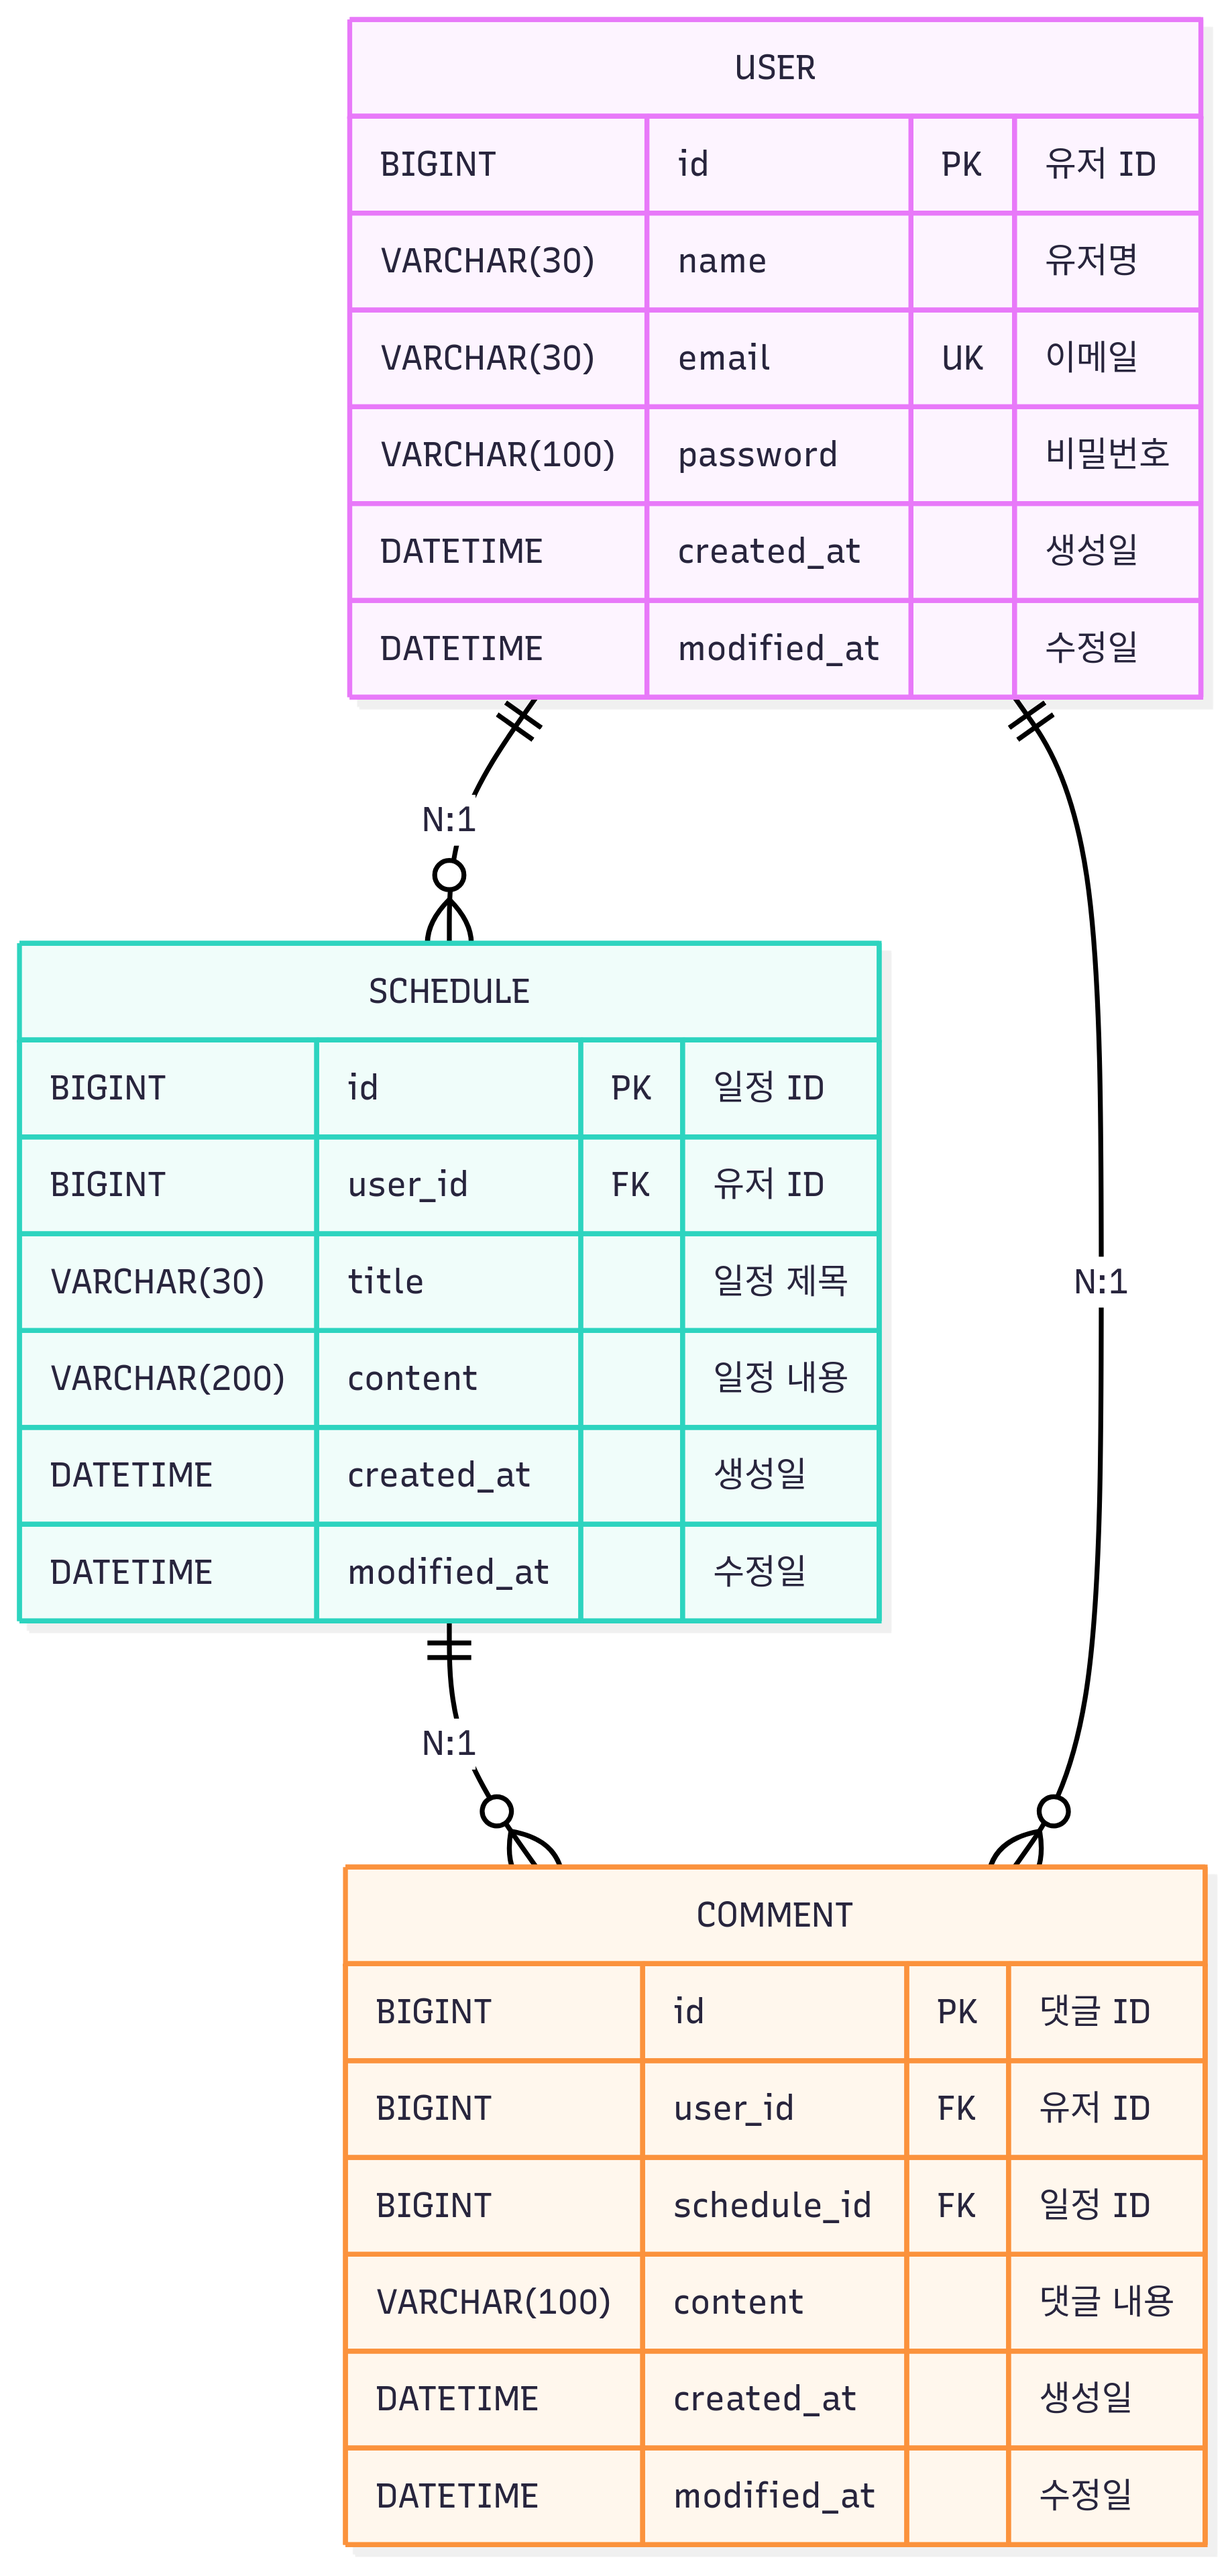
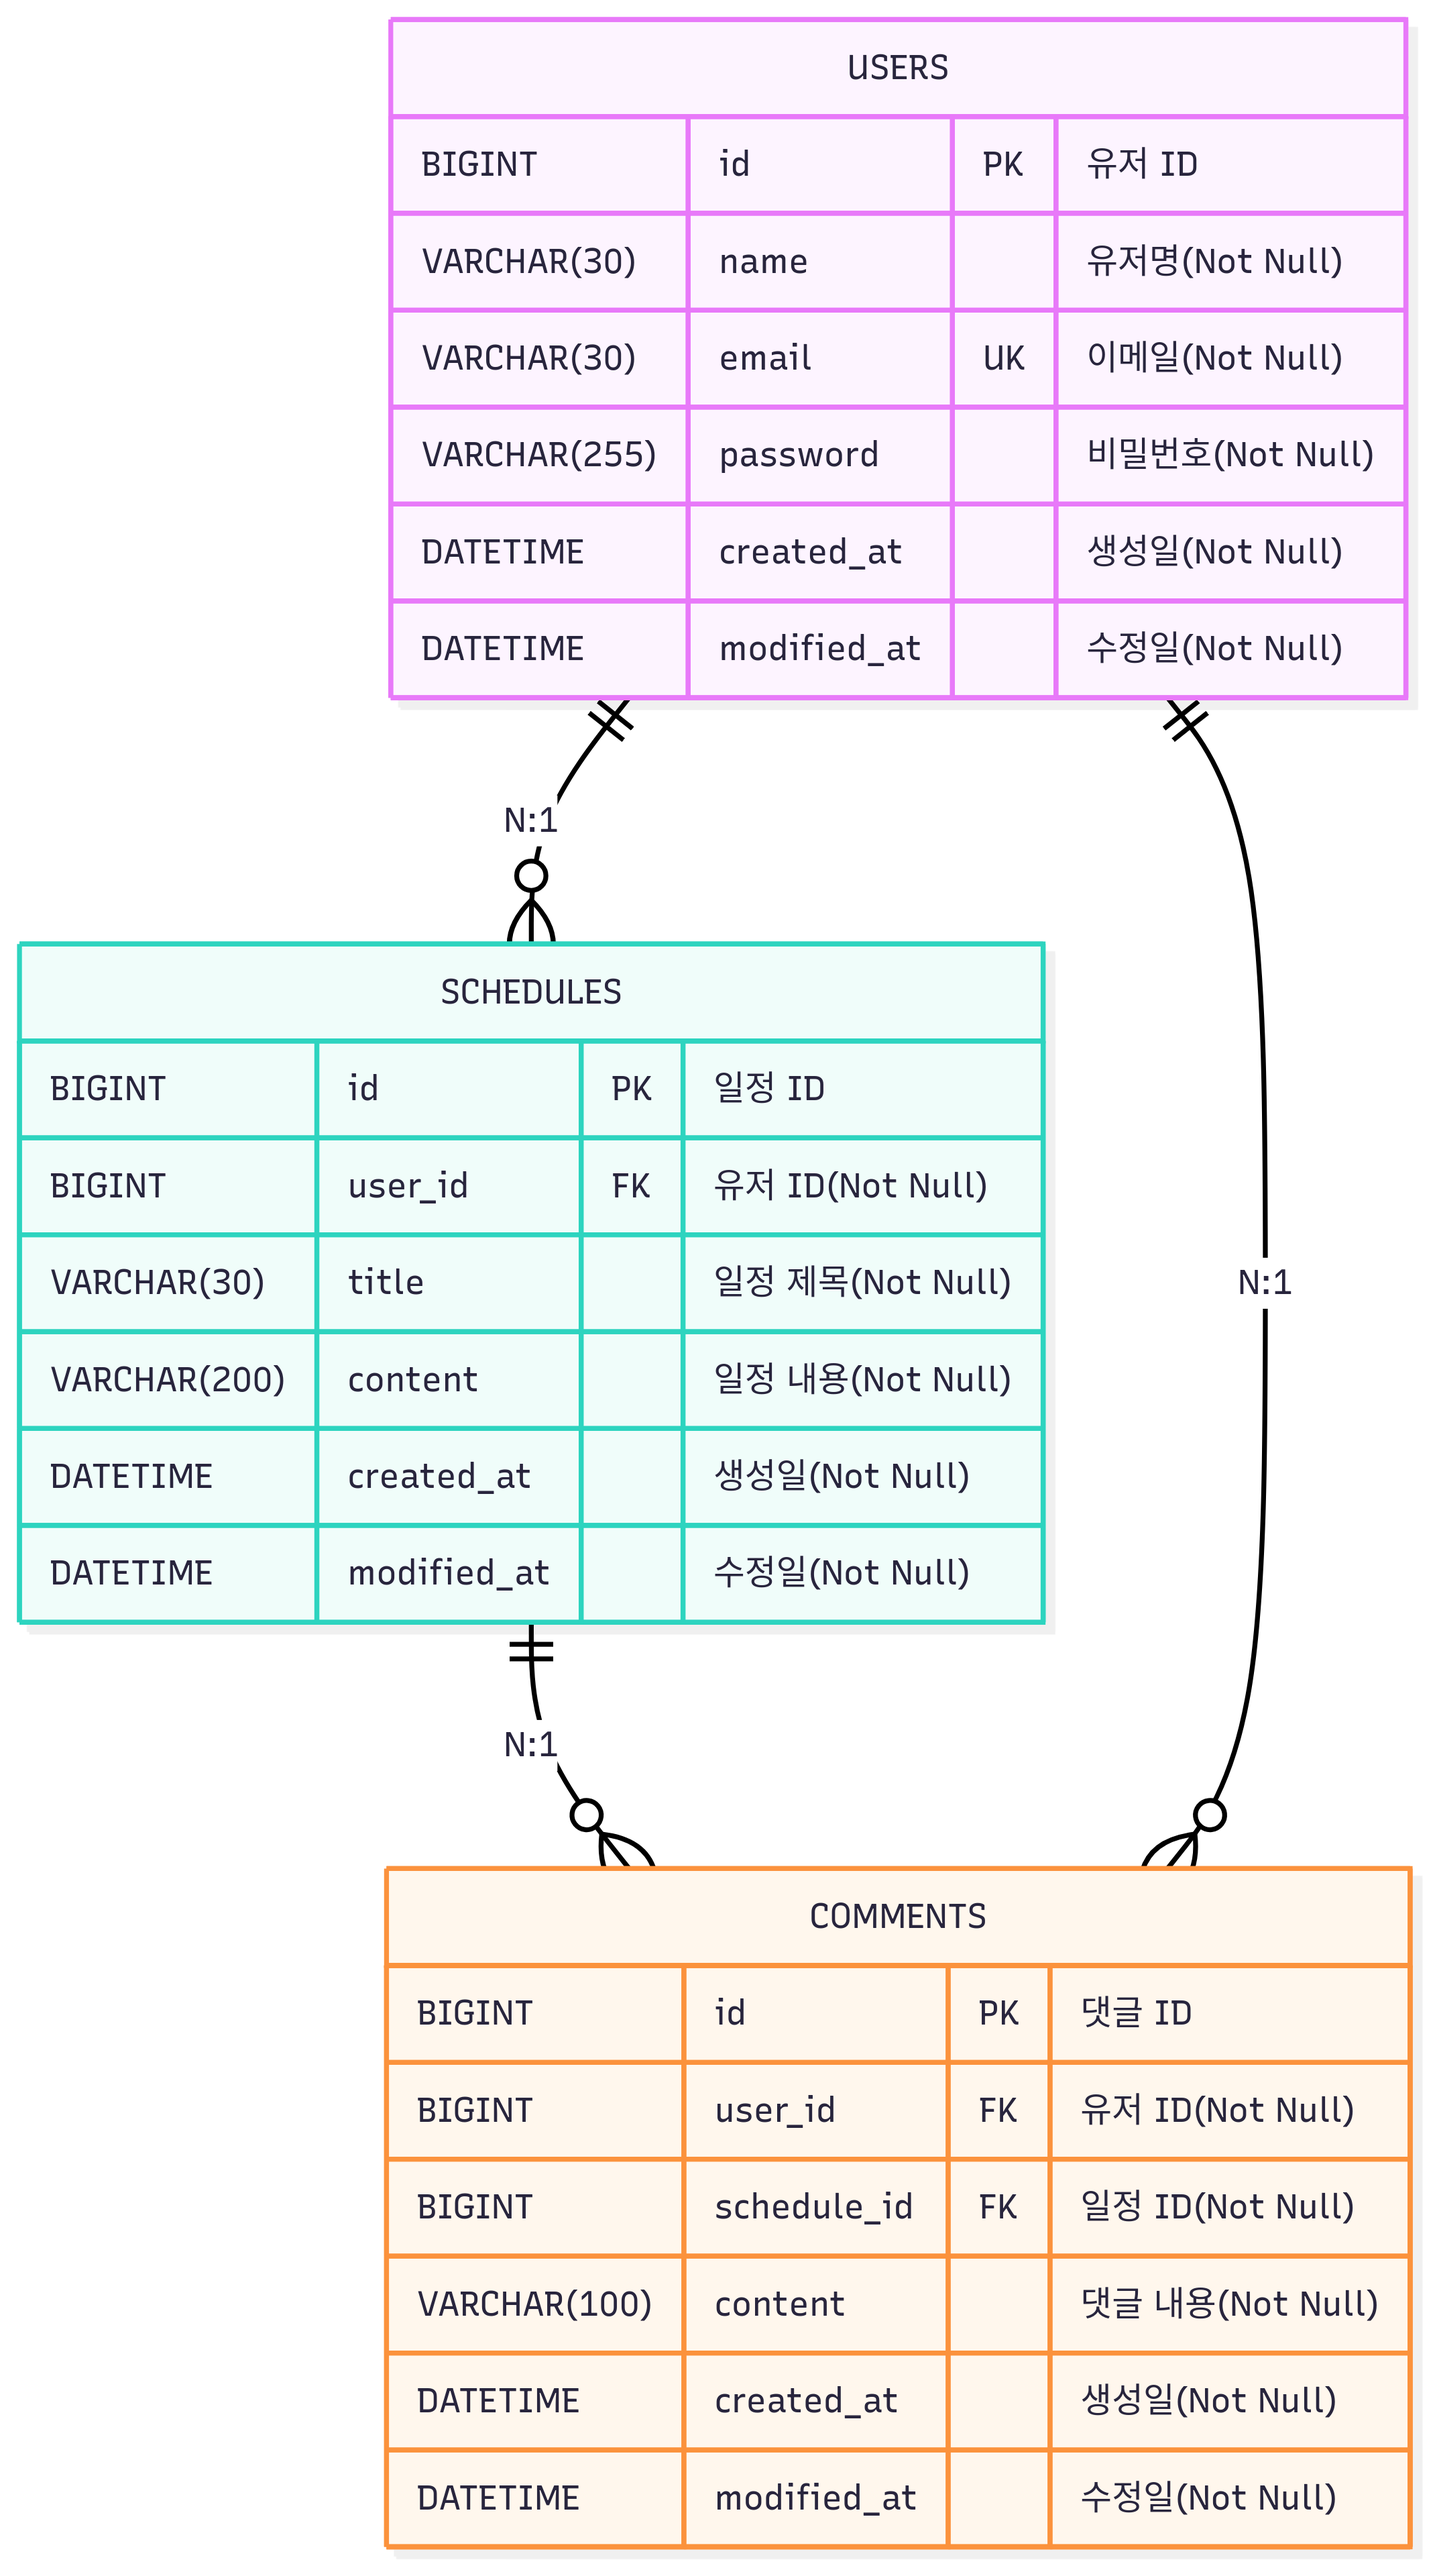
Style : readMe 파일 수정

Changed region(s): [[0.0, 0.0, 0.9945, 1.0], [0.5905, 0.0, 0.6527, 0.0312]]

diff --git a/readMe.md b/readMe.md
@@ -23,32 +23,32 @@ api 명세서
 
 테이블 명세서
 
-| 테이블(User) | 컴럼 | 타입 | 제약 | 설명 |
-| --- | --- | --- | --- | --- |
-| ID | id | BIGINT | PK | 유저 ID |
-| name | name | VARCHAR(30) | Not Null | 유저명 |
-| email | email | VARCHAR(30) | UK | 이메일 |
-| password | password | VARCHAR(100) | Not Null | 비밀번호 |
-| createdAt | created_At | DATETIME | Not Null | 생성일 |
+| 테이블(users) | 컴럼 | 타입 | 제약       | 설명 |
+|------------| --- | --- |----------| --- |
+| ID         | id | BIGINT | PK       | 유저 ID |
+| name       | name | VARCHAR(30) | Not Null | 유저명 |
+| email      | email | VARCHAR(30) | UK,Not Null  | 이메일 |
+| password   | password | VARCHAR(100) | Not Null | 비밀번호 |
+| createdAt  | created_At | DATETIME | Not Null | 생성일 |
 | modifiedAt | modified_At | DATETIME | Not Null | 수정일 |
 
-| 테이블(Schedule) | 컴럼 | 타입 | 제약 | 설명 |
-| --- | --- | --- | --- | --- |
-| ID | id | BIGINT | PK | 일정 ID |
-| userId | user_id | BIGINT | FK | 유저 ID |
-| title | title | VARCHAR(30) | Not Null | 일정 제목 |
-| content | content | VARCHAR(200) | Not Null | 일정 내용 |
-| createdAt | created_At | DATETIME | Not Null | 생성일 |
-| modifiedAt | modified_At | DATETIME | Not Null | 수정일 |
+| 테이블(schedules) | 컴럼 | 타입 | 제약 | 설명 |
+|----------------| --- | --- | --- | --- |
+| ID             | id | BIGINT | PK | 일정 ID |
+| userId         | user_id | BIGINT | FK, Not Null  | 유저 ID |
+| title          | title | VARCHAR(30) | Not Null | 일정 제목 |
+| content        | content | VARCHAR(200) | Not Null | 일정 내용 |
+| createdAt      | created_At | DATETIME | Not Null | 생성일 |
+| modifiedAt     | modified_At | DATETIME | Not Null | 수정일 |
 
-| 테이블(Comment) | 컴럼 | 타입 | 제약 | 설명 |
-| --- | --- | --- | --- | --- |
-| ID | id | BIGINT | PK | 댓글 ID |
-| userId | user_id | BIGINT | FK | 유저 ID |
-| scheduleId | schedule_id | BIGINT | FK | 일정 ID |
-| content | content | VARCHAR(100) | Not Null | 댓글 내용 |
-| createdAt | created_At | DATETIME | Not Null | 생성일 |
-| modifiedAt | modified_At | DATETIME | Not Null | 수정일 |
+| 테이블(comments) | 컴럼 | 타입 | 제약           | 설명 |
+|---------------| --- | --- |--------------| --- |
+| ID            | id | BIGINT | PK           | 댓글 ID |
+| userId        | user_id | BIGINT | FK, Not Null   | 유저 ID |
+| scheduleId    | schedule_id | BIGINT | FK, Not Null | 일정 ID |
+| content       | content | VARCHAR(100) | Not Null     | 댓글 내용 |
+| createdAt     | created_At | DATETIME | Not Null     | 생성일 |
+| modifiedAt    | modified_At | DATETIME | Not Null     | 수정일 |
 
 erd
 ![img.png](img.png)
